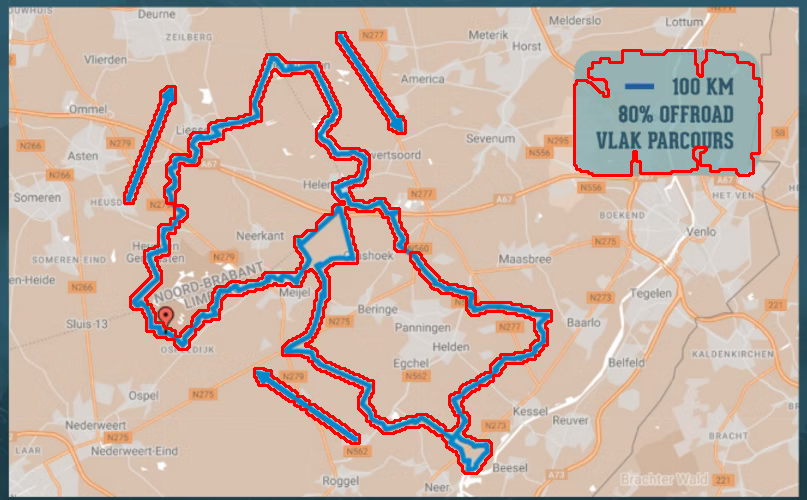
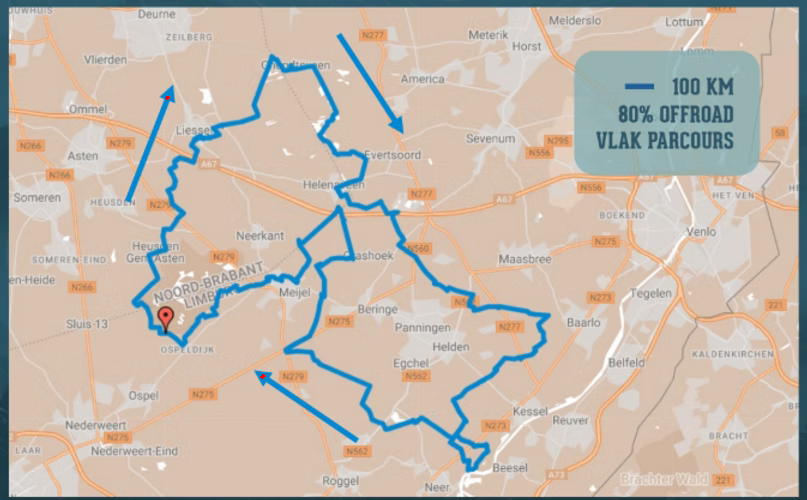
3

diff --git a/img_to_line.py b/img_to_line.py
@@ -4,6 +4,7 @@ from skimage import feature
 import svgwrite
 import argparse
 from pathlib import Path
+from skimage.morphology import skeletonize
 
 def preprocess_image(image_path):
     # Read the image
@@ -80,32 +81,88 @@ def contour_color_stddev(hsv, contour):
     std = np.std(pixels, axis=0)
     return np.mean(std)  # Mean stddev across HSV channels
 
-def detect_path(img, hsv):
+def detect_path(img, hsv, start_x, start_y):
     # Analyze colors first
     mean, std = analyze_colors(hsv)
     
-    # Use a wider blue-specific HSV range for the mask
-    lower_bound = np.array([90, 30, 30])
-    upper_bound = np.array([150, 255, 255])
-    print(f"Using wide blue HSV mask: lower={lower_bound}, upper={upper_bound}")
-    mask = cv2.inRange(hsv, lower_bound, upper_bound)
+    # Use CLI-provided starting point
+    start_point = (start_x, start_y)
+    # Print the BGR and HSV color at the sampled point
+    bgr_at_point = img[start_point[1], start_point[0]]  # [y, x]
+    hsv_at_point = hsv[start_point[1], start_point[0]]
+    print(f'BGR at {start_point}: {bgr_at_point}')
+    print(f'HSV at {start_point}: {hsv_at_point}')
+    
+    # Use very strict color matching
+    # HSV approach with very tight ranges
+    h, s, v = map(int, hsv_at_point)  # Convert to int first
+    # Ensure proper bounds for HSV
+    hsv_lower = np.array([
+        max(0, h-5),
+        max(0, s-20),
+        max(0, v-20)
+    ])
+    hsv_upper = np.array([
+        min(179, h+5),
+        min(255, s+20),
+        min(255, v+20)
+    ])
+    print(f'Using HSV mask: lower={hsv_lower}, upper={hsv_upper}')
+    hsv_mask = cv2.inRange(hsv, hsv_lower, hsv_upper)
+    print(f'HSV mask non-zero pixels: {np.count_nonzero(hsv_mask)}')
+    
+    # BGR approach with very tight ranges
+    b, g, r = map(int, bgr_at_point)  # Convert to int first
+    # Ensure proper bounds for BGR
+    bgr_lower = np.array([
+        max(0, b-10),
+        max(0, g-10),
+        max(0, r-10)
+    ])
+    bgr_upper = np.array([
+        min(255, b+10),
+        min(255, g+10),
+        min(255, r+10)
+    ])
+    print(f'Using BGR mask: lower={bgr_lower}, upper={bgr_upper}')
+    bgr_mask = cv2.inRange(img, bgr_lower, bgr_upper)
+    print(f'BGR mask non-zero pixels: {np.count_nonzero(bgr_mask)}')
+    
+    # Combine both masks using AND instead of OR for stricter matching
+    mask = cv2.bitwise_and(hsv_mask, bgr_mask)
+    print(f'Combined mask non-zero pixels: {np.count_nonzero(mask)}')
+    
+    # Create debug image showing filtered pixels
+    debug_filtered = img.copy()
+    # Create a colored overlay for the filtered pixels
+    overlay = np.zeros_like(img)
+    overlay[mask > 0] = [0, 255, 0]  # Green overlay for matching pixels
+    # Blend the overlay with the original image
+    alpha = 0.7  # Increased alpha for more visible overlay
+    debug_filtered = cv2.addWeighted(debug_filtered, 1, overlay, alpha, 0)
+    # Add the starting point
+    cv2.circle(debug_filtered, start_point, 8, tuple(int(x) for x in bgr_at_point), -1)
+    cv2.imwrite('debug_filtered.png', debug_filtered)
+    
+    # Save debug mask
+    cv2.imwrite('debug_mask.png', mask)
     
     # Remove border from mask
     mask = remove_border(mask, margin=20)
     
-    # Save debug image
-    cv2.imwrite('debug_mask.png', mask)
-    
-    # Apply morphological operations to clean up the mask
-    kernel = np.ones((3,3), np.uint8)
-    mask = cv2.morphologyEx(mask, cv2.MORPH_OPEN, kernel)
-    mask = cv2.morphologyEx(mask, cv2.MORPH_CLOSE, kernel)
-    
-    # Additional dilation to connect nearby components
-    mask = cv2.dilate(mask, kernel, iterations=2)
-    
-    # Save debug image after morphological operations
-    cv2.imwrite('debug_mask_cleaned.png', mask)
+    # Fill small gaps with larger kernel
+    kernel_close = np.ones((5, 5), np.uint8)
+    mask = cv2.morphologyEx(mask, cv2.MORPH_CLOSE, kernel_close)
+
+    # Connect nearby spots with minimal thickening
+    kernel_dilate = np.ones((3, 3), np.uint8)
+    mask = cv2.dilate(mask, kernel_dilate, iterations=1)
+
+    # Remove small noise
+    mask = cv2.morphologyEx(mask, cv2.MORPH_OPEN, kernel_dilate)
+
+    # Optional: Skeletonize to thin the line
+    mask = skeletonize(mask // 255).astype(np.uint8) * 255
     
     # Find contours in the mask
     contours, _ = cv2.findContours(mask, cv2.RETR_EXTERNAL, cv2.CHAIN_APPROX_SIMPLE)
@@ -125,7 +182,7 @@ def detect_path(img, hsv):
     filtered = []
     for i, cnt in enumerate(contours):
         area = cv2.contourArea(cnt)
-        if area < 30:
+        if area < 5:  # Reduced minimum area threshold
             print(f"Contour {i}: Skipped (too small)")
             continue
         x, y, w, h = cv2.boundingRect(cnt)
@@ -139,12 +196,12 @@ def detect_path(img, hsv):
         cv2.drawContours(mask_contour, [cnt], -1, 255, -1)
         dist_transform = cv2.distanceTransform(mask_contour, cv2.DIST_L2, 5)
         thickness = np.max(dist_transform) * 2
-        if not (1 <= thickness <= 50):
+        if not (0.5 <= thickness <= 100):  # Increased max thickness
             print(f"Contour {i}: Skipped (thickness {thickness:.1f})")
             continue
         color_std = contour_color_stddev(hsv, cnt)
         print(f"Contour {i}: color_std={color_std:.2f}")
-        if color_std > 10:  # Threshold for color uniformity (tune as needed)
+        if color_std > 20:  # Increased color stddev threshold
             print(f"Contour {i}: Skipped (color stddev {color_std:.2f})")
             continue
         print(f"Contour {i}: Kept (area={area:.1f}, bbox=({x},{y},{w},{h}), thickness={thickness:.1f}, color_std={color_std:.2f})")
@@ -152,23 +209,23 @@ def detect_path(img, hsv):
     
     print(f"Filtered to {len(filtered)} contours (no border/boxes, uniform color)")
     
-    # Select the longest
-    longest_contour = None
-    max_length = 0
-    
+    # After filtering, keep only the contour containing the known point
+    selected_contour = None
     for cnt in filtered:
-        length = cv2.arcLength(cnt, True)
-        if length > max_length:
-            max_length = length
-            longest_contour = cnt
+        if cv2.pointPolygonTest(cnt, start_point, False) >= 0:
+            selected_contour = cnt
+            print(f"Selected contour contains the starting point {start_point}.")
+            break
+    if selected_contour is not None:
+        filtered_contours = [selected_contour]
+    else:
+        filtered_contours = []
+        print(f"No contour contains the starting point {start_point}.")
     
-    filtered_contours = [longest_contour] if longest_contour is not None else []
-    print(f"Selected contour length: {max_length:.1f}")
-    
-    # Create debug visualization
-    debug_img = img.copy()
-    cv2.drawContours(debug_img, filtered_contours, -1, (0, 255, 0), 2)
-    cv2.imwrite('debug_contours.png', debug_img)
+    # Debug: Show the sampled point on the image in its actual color
+    debug_point_img = img.copy()
+    cv2.circle(debug_point_img, start_point, 8, tuple(int(x) for x in bgr_at_point), -1)
+    cv2.imwrite('debug_point.png', debug_point_img)
     
     return filtered_contours
 
@@ -216,9 +273,10 @@ def main():
     parser.add_argument('--min-thickness', type=float, default=1, help='Minimum path thickness (default: 1)')
     parser.add_argument('--max-thickness', type=float, default=50, help='Maximum path thickness (default: 50)')
     parser.add_argument('--border-margin', type=int, default=20, help='Margin from border to remove (default: 20)')
-    
+    parser.add_argument('--start-x', type=int, required=True, help='X coordinate of a known point on the line')
+    parser.add_argument('--start-y', type=int, required=True, help='Y coordinate of a known point on the line')
     args = parser.parse_args()
-    
+
     # Set default output path if not provided
     if args.output is None:
         input_path = Path(args.input)
@@ -230,7 +288,7 @@ def main():
         img, hsv = preprocess_image(args.input)
         
         # Detect path
-        contours = detect_path(img, hsv)
+        contours = detect_path(img, hsv, args.start_x, args.start_y)
         
         # Simplify contours
         simplified_contours = simplify_contours(contours)
@@ -243,10 +301,10 @@ def main():
         
         print(f"Successfully created vector drawing at: {args.output}")
         print("Debug images have been saved:")
-        print("- debug_mask.png: Initial color mask")
-        print("- debug_mask_cleaned.png: Mask after cleaning")
+        print("- debug_point.png: Circle at the known point")
         print("- debug_all_contours.png: All detected contours")
-        print("- debug_contours.png: Filtered contours")
+        print("- debug_mask.png: Color mask")
+        print("- debug_filtered.png: Original image with filtered pixels highlighted")
         
     except Exception as e:
         print(f"Error processing image: {str(e)}")
